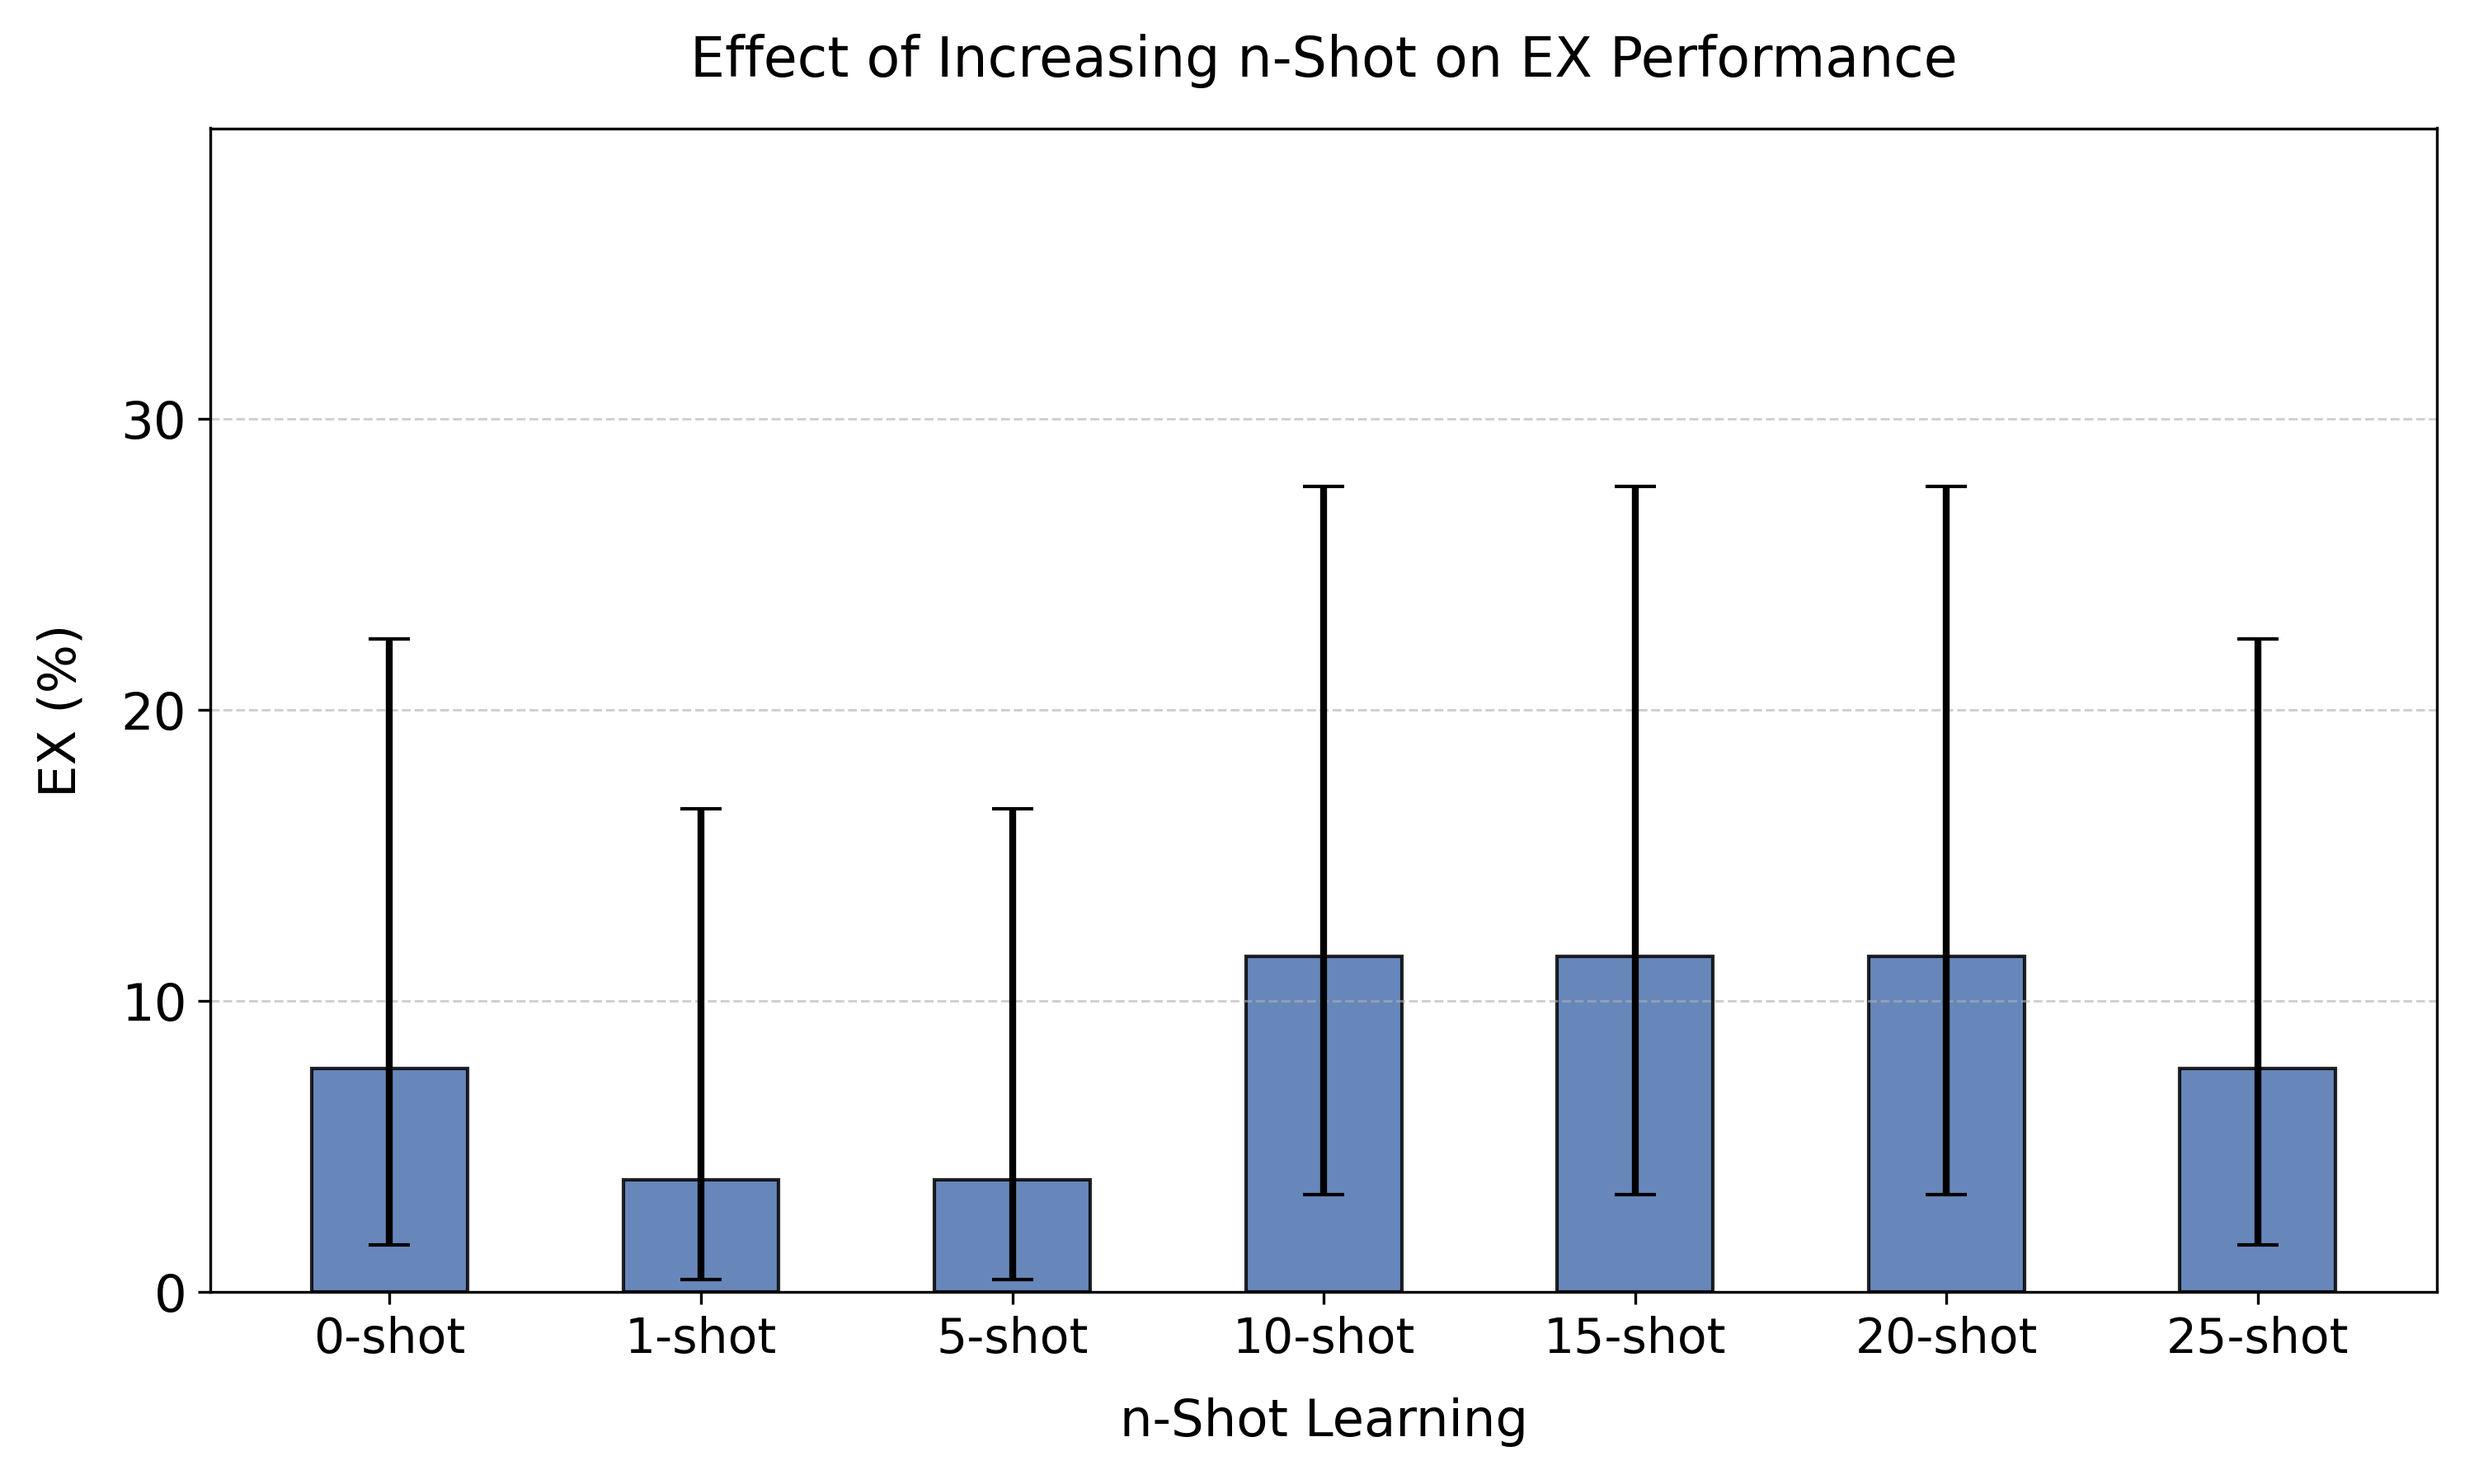
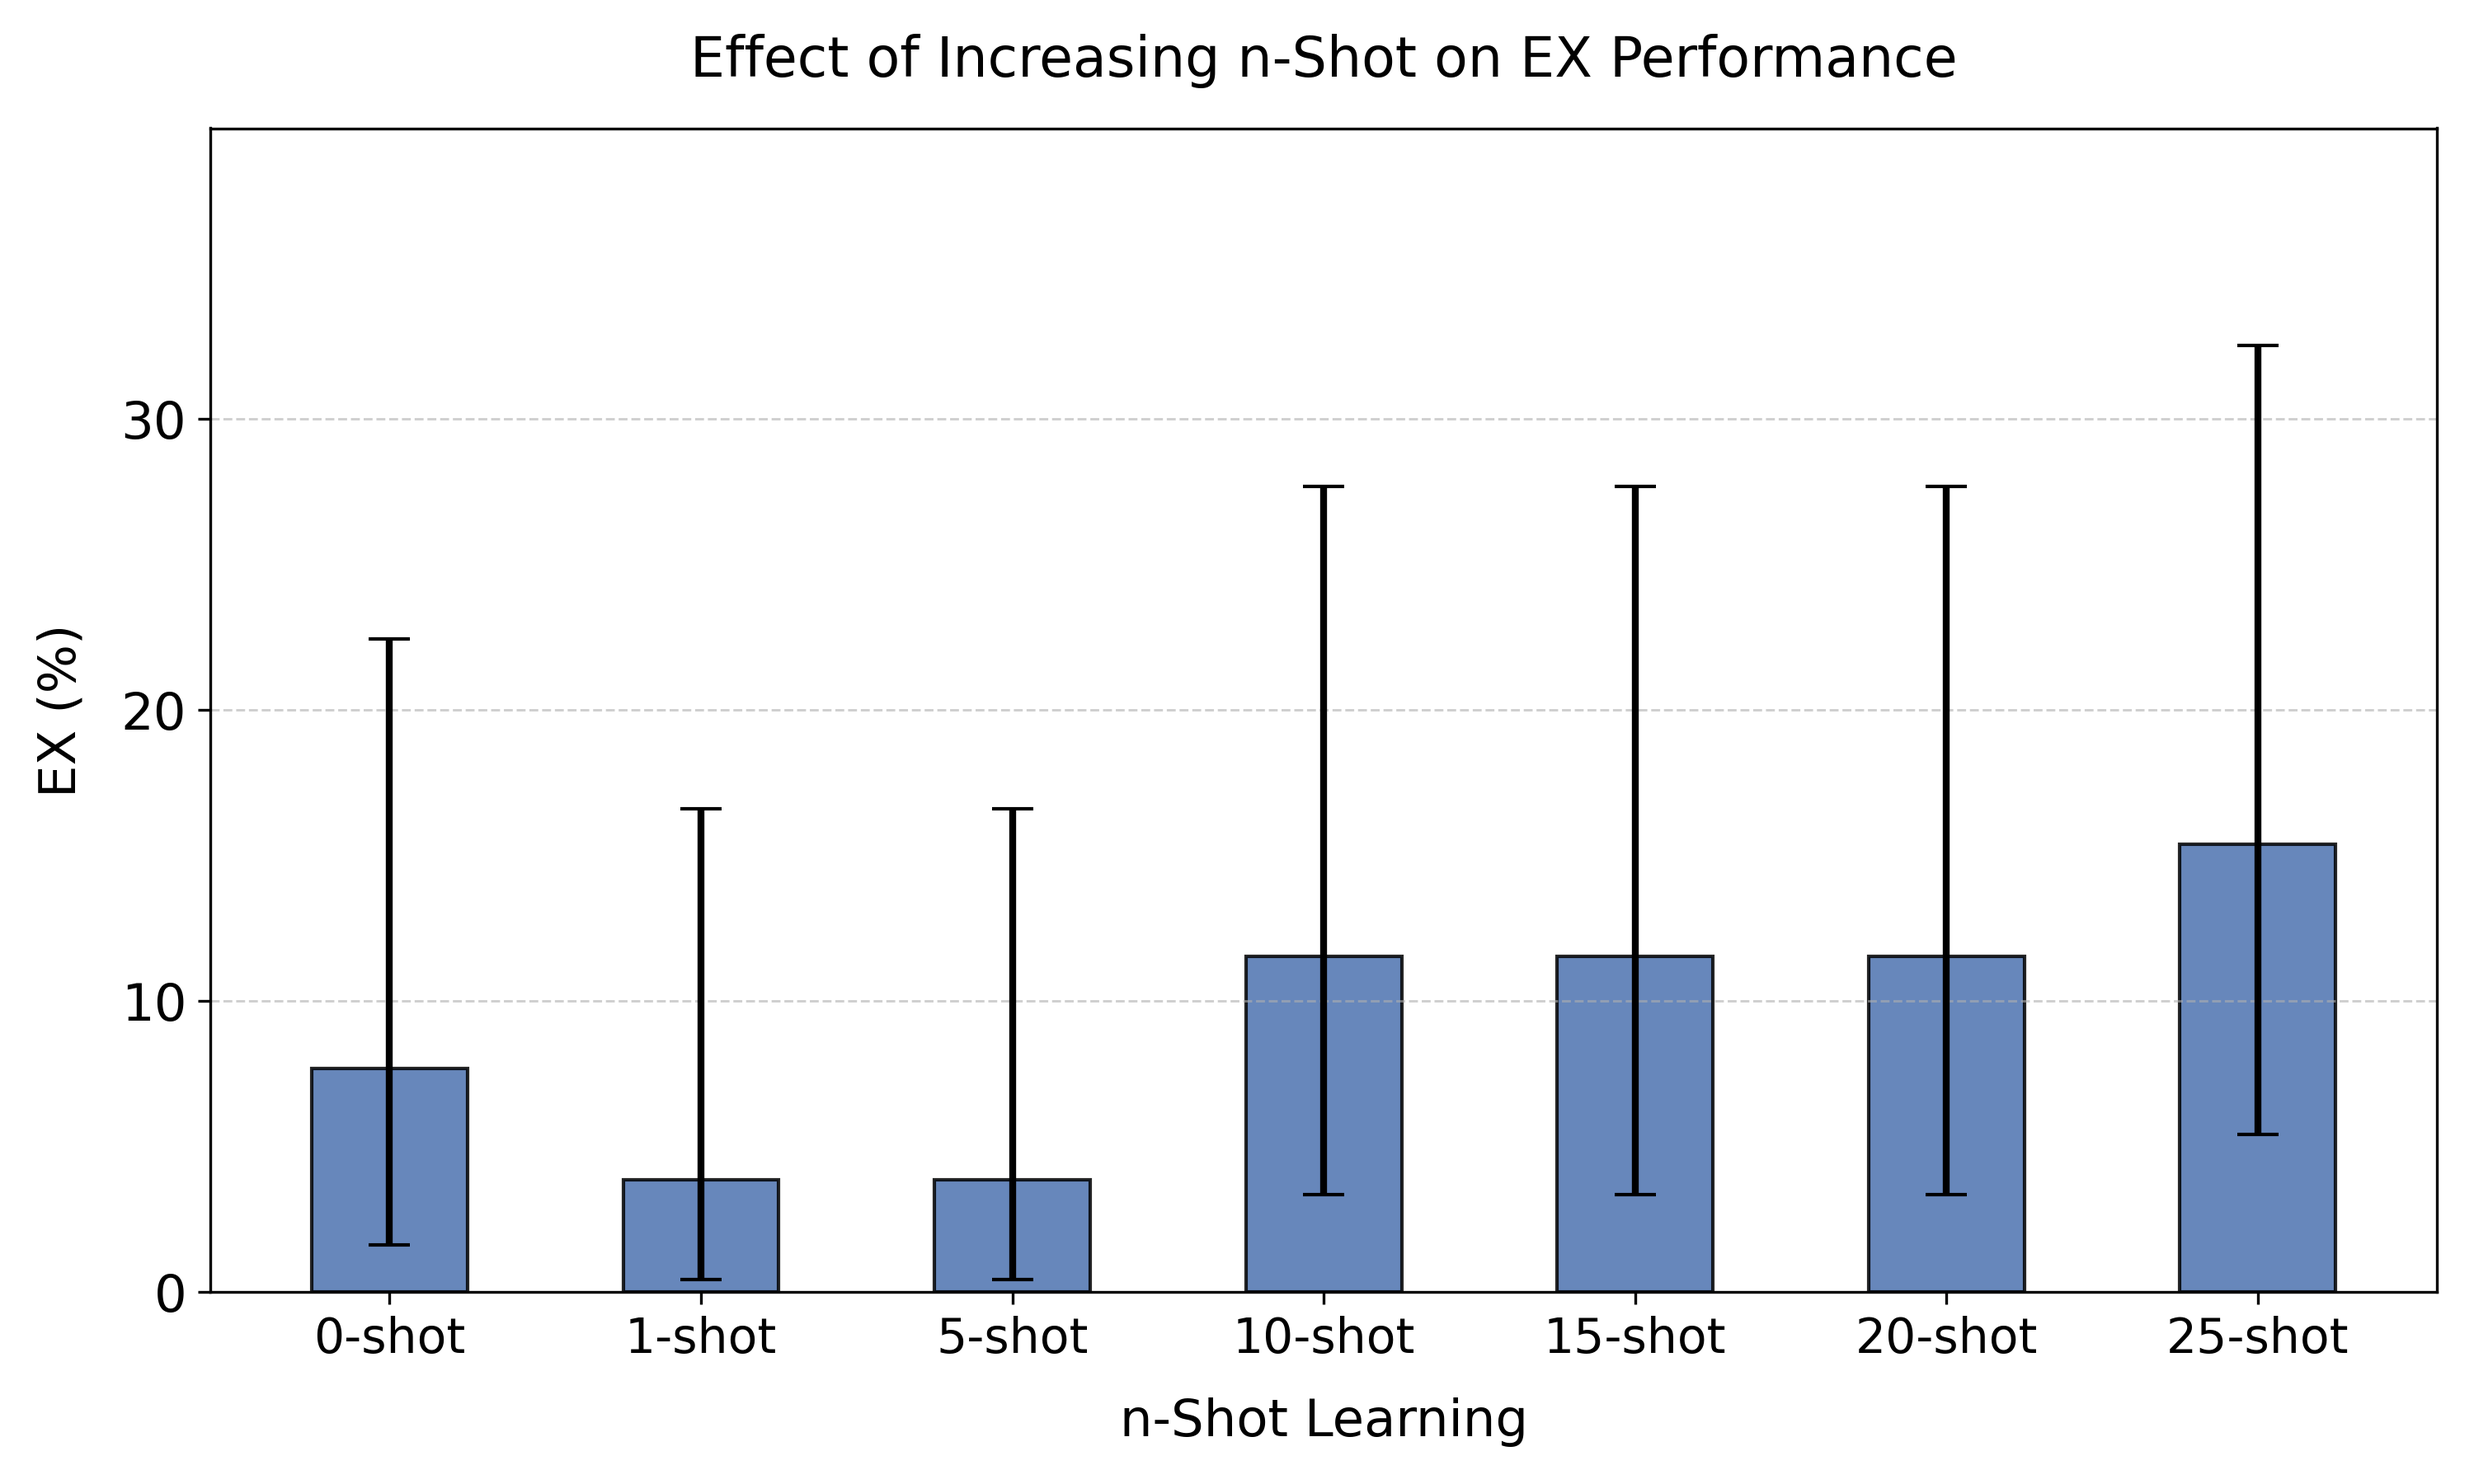
Fix EX value on graph

Changed region(s): [[0.868, 0.56, 0.961, 0.7467], [0.899, 0.2489, 0.93, 0.4356], [0.899, 0.7778, 0.93, 0.84]]

diff --git a/Visualise/nshot/vis_nshot_ex.py b/Visualise/nshot/vis_nshot_ex.py
@@ -18,7 +18,7 @@ def proportion_ci(n, p):
 n_shot_levels = ["0-shot", "1-shot", "5-shot", "10-shot", "15-shot", "20-shot", "25-shot"]  
 
 n_trials = 26  
-ser_results = np.array([7.69, 3.85, 3.85, 11.54, 11.54, 11.54, 7.69]) / 100  # Convert % to proportion
+ser_results = np.array([7.69, 3.85, 3.85, 11.54, 11.54, 11.54, 15.38]) / 100  # Convert % to proportion
 
 # Compute confidence intervals
 ci = [proportion_ci(n_trials, p) for p in ser_results]
